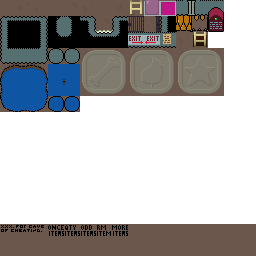
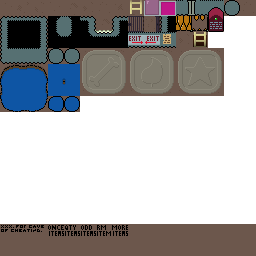
tundra secret entrance: Rock that turns into a ladder implicitly

Changed region(s): [[0.875, 0.0, 1.0, 0.0625]]

diff --git a/src/game/shared_symbols.h b/src/game/shared_symbols.h
@@ -257,6 +257,7 @@
 #define NS_activity_busstop 35 /* (u16)busstop */
 #define NS_activity_inconvenience 36
 #define NS_activity_invcritic 37
+#define NS_activity_tundra_secret_entrance 38
 
 #define NS_sprtype_dummy        0 /* (u32)0 */
 #define NS_sprtype_hero         1 /* (u32)0 */
@@ -516,7 +517,7 @@
 #define NS_fld_story16 85
 #define NS_fld_forest_toll 86
 #define NS_fld_hc2 87 /* Heart container in temple pool. */
-#define NS_fld_hc3 88 /* TODO */
+#define NS_fld_hc3 88 /* Inventory critic. */
 #define NS_fld_hc4 89 /* TODO */
 #define NS_fld_hc5 90 /* TODO */
 #define NS_fld_jig_desert_fish 91 /* One jigpiece in the desert pond where you have to fish for it. */

diff --git a/src/game/activity/activity.c b/src/game/activity/activity.c
@@ -55,6 +55,7 @@ void game_begin_activity(int activity,int arg,struct sprite *initiator) {
     case NS_activity_busstop: begin_busstop(arg); break;
     case NS_activity_inconvenience: begin_inconvenience(initiator); break;
     case NS_activity_invcritic: begin_invcritic(initiator); break;
+    case NS_activity_tundra_secret_entrance: store_set_fld(NS_fld_tundra_secret_entrance,1); break;
     default: {
         fprintf(stderr,"Unknown activity %d.\n",activity);
       }

diff --git a/README.md b/README.md
@@ -34,6 +34,7 @@ Requires [Egg](https://github.com/aksommerville/egg2) to build.
 - [ ] Battle wrapper: Issue a warning before timing out. And 60 s feels too long. Gather some stats on how long they are actually taking.
 - [ ] broomrace: Player faces. And can we do cool swooshing frames like apothecary?
 - [x] Earthquakes don't shake the camera in singleton maps due to clamping. They do need to.
+- [x] Tundra secret entrance, make a rock in the outer world that turns into a ladder, with a stompbox underground. If you only see it from outside, you shouldn't guess there's a ladder.
 
 - For exploration some time in the uncertain future.
 - [ ] Can we randomize the statuemaze like we did cryptmsg?
@@ -47,6 +48,7 @@ Requires [Egg](https://github.com/aksommerville/egg2) to build.
 - - We're only using it for wand, and the effect is agreeable. But might need mitigation if we use for other things.
 - [ ] Crying Contest: No handicap variance in 2-player mode. Should we force some?
 - [x] rsprite: Monsters are sparse at first and accumulate the longer you stay in a zone. Can we thumb the scale a bit to try keeping population near the middle?
+- - [ ] Actually I think I made it worse. Wipe `spawner` and replace with something more structured, along the lines of Spelling Bee. Will be complicated because the weights are per-map.
 - [ ] Is it possible to render Racketeering Contest to work with red-and-blue 3D glasses?
 - [ ] fractia: Don't show the outdoor endorser signs or allow endorser battles except when the election is running.
 - [ ] ^ Actually do allow endorser battles outside the election: They get more difficult each time, and if you beat the whole guild there's a one-time prize.
